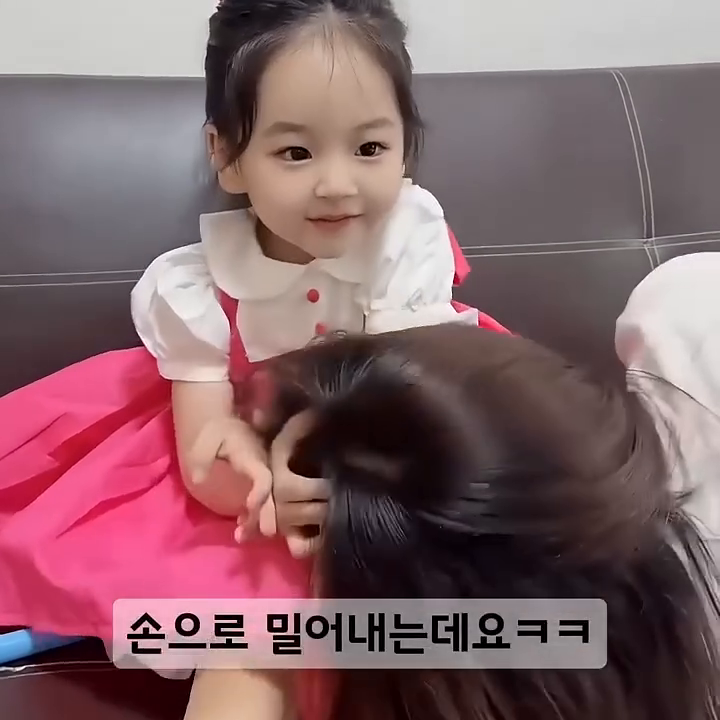
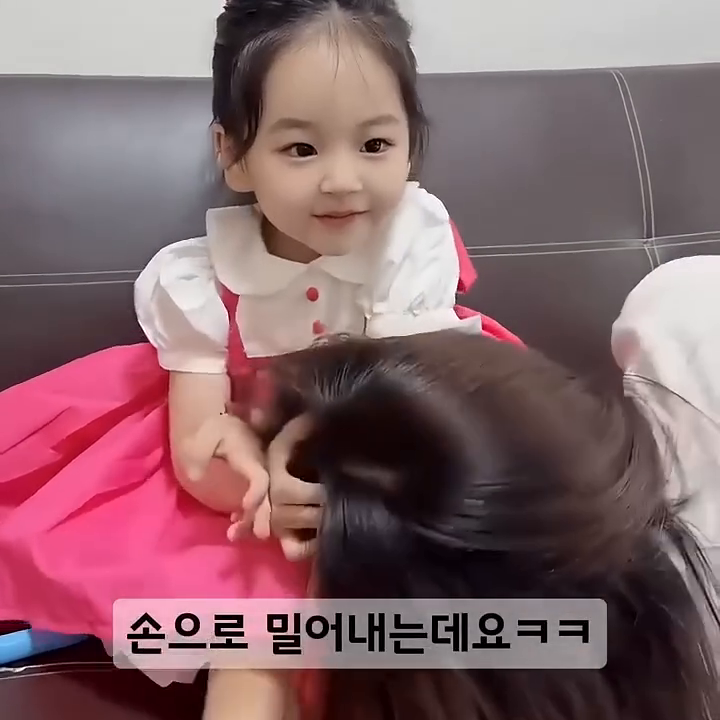
Next8: clearer push key frame
Claude-Session: https://claude.ai/code/session_01NadtamC3j7eyTVHCEF92VQ

diff --git a/work/week3/next8/PLAN.md b/work/week3/next8/PLAN.md
@@ -39,4 +39,4 @@
 - ✘ 핵심 "밀어내기" 약함: 원본 5.5–7.25는 카메라가 다가가며 두 손으로 엄마 머리를 밀어냄 → 8.0–8.75 몸을 앞으로 내밀며 말함. 결과는 고정 구도에서 손을 엄마 머리 위에 얹고 토닥이는 정도, 앞으로 내밀기 없음.
 - 원인 추정: 정답 이미지(Ref-Mom)가 "손을 머리에 얹은" 자세라 그 자세를 유지(정답 이미지 지배 원칙).
 - 해상도: 아빠 1440 / 엄마 768 → 합본 시 맞춤(엄마 쪽 약간 부드러움).
-- B안: 밀어내기 재생성. 소스 ref/Src-Mom-Push.mp4 = 원본 24.9–28.4(Src-Mom 5.5–9.0, 3.5초). 정답 이미지 기준 프레임 ref/Src-Push-Key.png = 원본 26.0초(두 손으로 엄마 머리 밀기 최고점, 아이 장난스러운 표정). 합본: Next8-Mom 0–5.5 + 새 클립.
+- B안: 밀어내기 재생성. 소스 ref/Src-Mom-Push.mp4 = 원본 24.9–28.4(Src-Mom 5.5–9.0, 3.5초). 정답 이미지 기준 프레임 ref/Src-Push-Key.png = 원본 26.12초(26.0은 손이 모션블러로 기괴 → 손이 가장 또렷한 프레임으로 교체)(두 손으로 엄마 머리 밀기 최고점, 아이 장난스러운 표정). 합본: Next8-Mom 0–5.5 + 새 클립.
